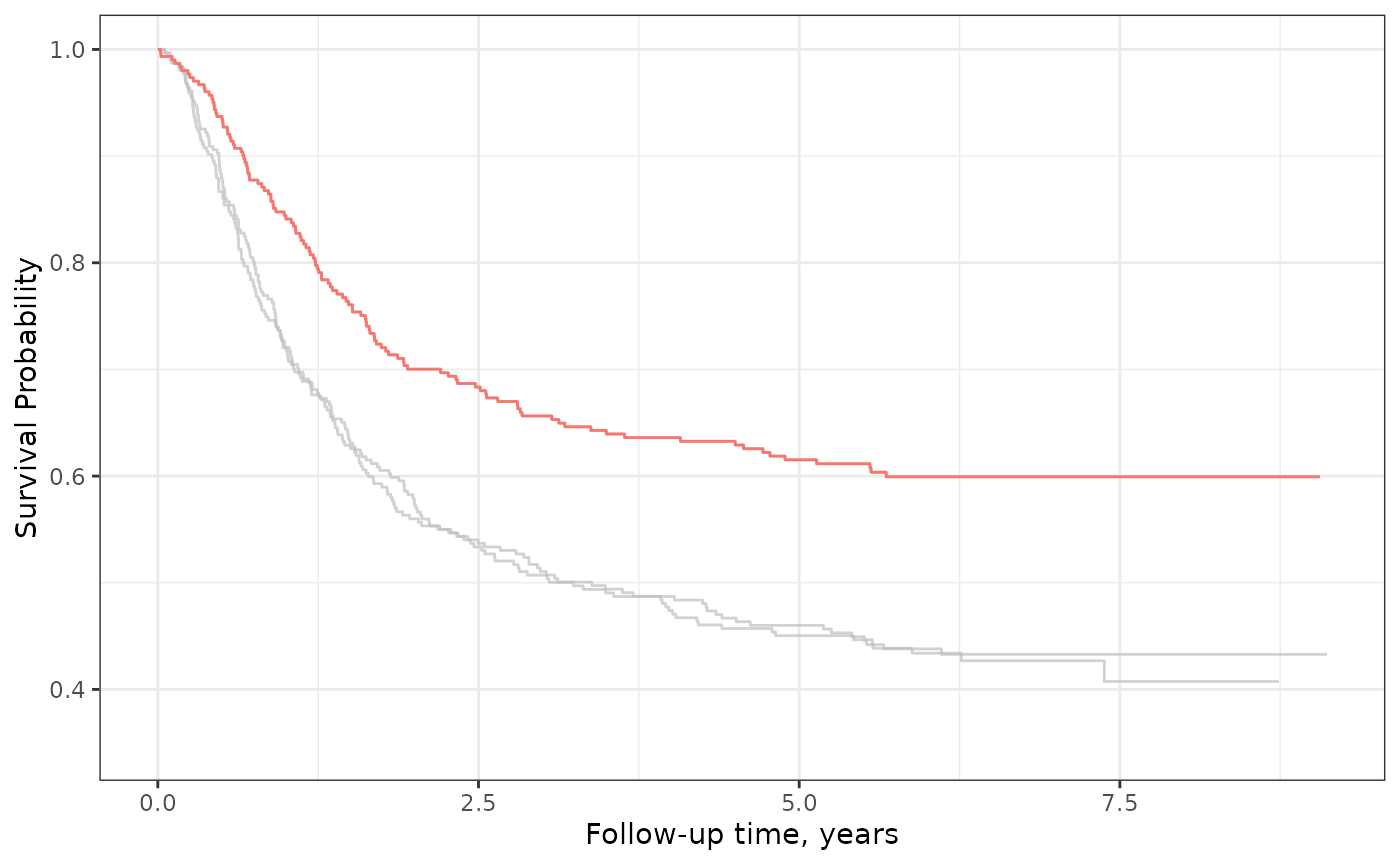
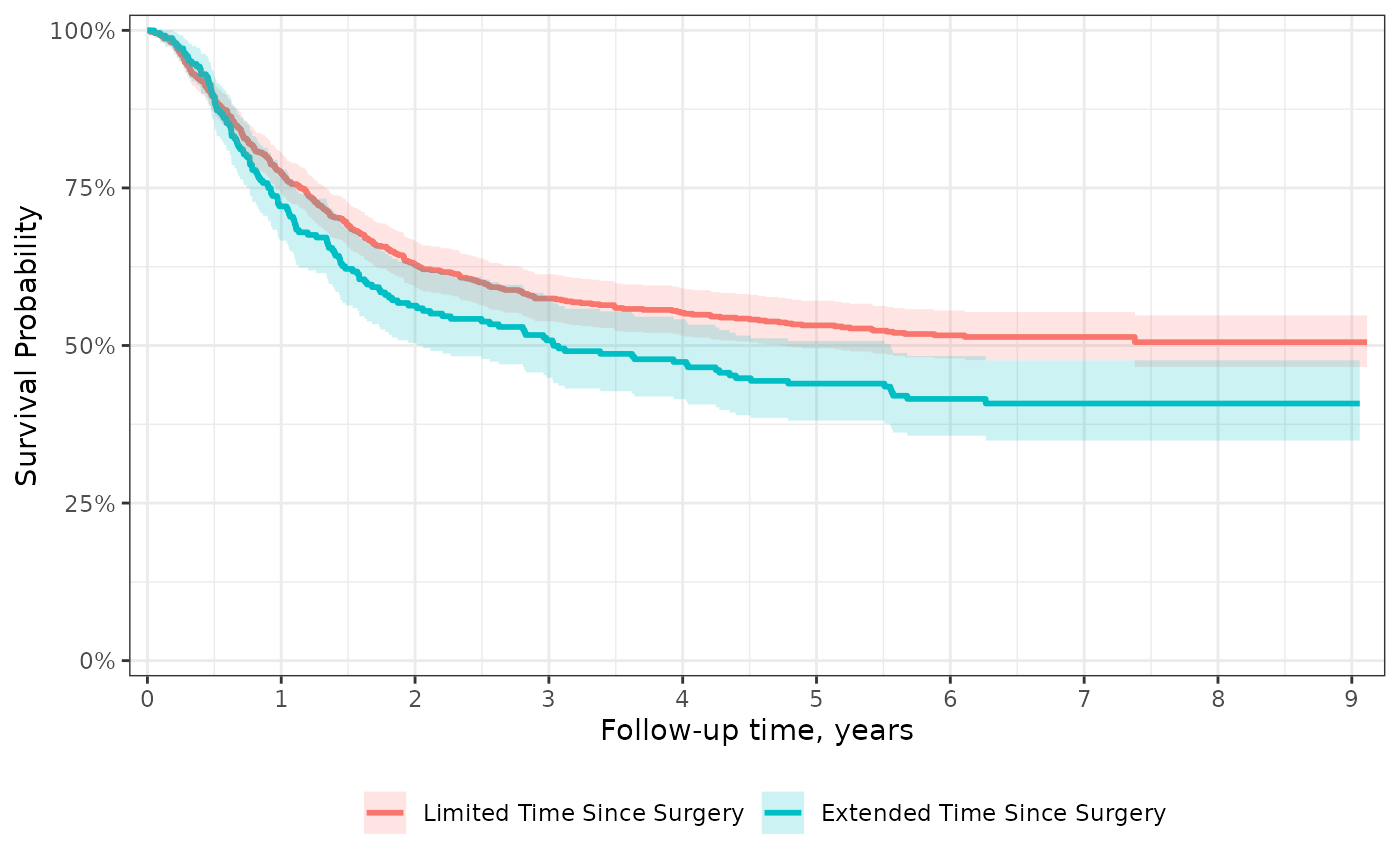
Deploying to gh-pages from @ ddsjoberg/ggsurvfit@62df2901b9de74e2e873002a0ddef8b74cec7083 🚀

diff --git a/dev/articles/gallery.html b/dev/articles/gallery.html
@@ -267,7 +267,7 @@
 <div class="section level2">
 <h2 id="extensions">Extensions<a class="anchor" aria-label="anchor" href="#extensions"></a>
 </h2>
-<p>Because {ggsurvfit} functions are written as proper {ggplot2} geoms, you can both weave any {ggplot2} functions <strong>and</strong> ggplot2 extensions, such as {gghighlight}.</p>
+<p>Because {ggsurvfit} functions are written as proper {ggplot2} geoms, you can both weave any {ggplot2} functions <strong>and</strong> ggplot2 extensions, such as {gghighlight} and {ggeasy}.</p>
 <div class="sourceCode" id="cb13"><pre class="downlit sourceCode r">
 <code class="sourceCode R"><span><span class="fu"><a href="../reference/survfit2.html">survfit2</a></span><span class="op">(</span><span class="fu"><a href="https://rdrr.io/pkg/survival/man/Surv.html" class="external-link">Surv</a></span><span class="op">(</span><span class="va">time</span>, <span class="va">status</span><span class="op">)</span> <span class="op">~</span> <span class="va">rx</span>, data <span class="op">=</span> <span class="va">df_colon</span><span class="op">)</span> <span class="op"><a href="https://magrittr.tidyverse.org/reference/pipe.html" class="external-link">%&gt;%</a></span></span>
 <span>  <span class="fu"><a href="../reference/ggsurvfit.html">ggsurvfit</a></span><span class="op">(</span><span class="op">)</span> <span class="op">+</span></span>
@@ -275,10 +275,26 @@
 <span>    <span class="va">strata</span> <span class="op">==</span> <span class="st">"Levamisole+5-FU"</span>,</span>
 <span>    calculate_per_facet <span class="op">=</span> <span class="cn">TRUE</span></span>
 <span>  <span class="op">)</span> <span class="op">+</span></span>
-<span>  <span class="fu">theme</span><span class="op">(</span>legend.position <span class="op">=</span> <span class="st">"none"</span><span class="op">)</span></span>
-<span><span class="co">#&gt; Warning: Tried to calculate with group_by(), but the calculation failed.</span></span>
-<span><span class="co">#&gt; Falling back to ungrouped filter operation...</span></span></code></pre></div>
+<span>  <span class="fu">ggeasy</span><span class="fu">::</span><span class="fu"><a href="https://rdrr.io/pkg/ggeasy/man/easy_remove_legend.html" class="external-link">easy_remove_legend</a></span><span class="op">(</span><span class="op">)</span> <span class="op">+</span></span>
+<span>  <span class="fu">ggeasy</span><span class="fu">::</span><span class="fu"><a href="https://rdrr.io/pkg/ggeasy/man/easy_change_text.html" class="external-link">easy_y_axis_labels_size</a></span><span class="op">(</span>size <span class="op">=</span> <span class="fl">15</span><span class="op">)</span> <span class="op">+</span></span>
+<span>  <span class="fu">ggeasy</span><span class="fu">::</span><span class="fu"><a href="https://rdrr.io/pkg/ggeasy/man/easy_change_text.html" class="external-link">easy_x_axis_labels_size</a></span><span class="op">(</span>size <span class="op">=</span> <span class="fl">15</span><span class="op">)</span></span></code></pre></div>
 <p><img src="gallery_files/figure-html/unnamed-chunk-13-1.png" width="700"></p>
+</div>
+<div class="section level2">
+<h2 id="scales">Scales<a class="anchor" aria-label="anchor" href="#scales"></a>
+</h2>
+<p>Unlike most ggplot2 functions, scales are not additive. This means that if a scale attribute is modified in one call to <code>scale_x_continuous()</code>, a second call to <code>scale_x_continuous()</code> will write over <em>all</em> changes made in the first. For this reason, the <code><a href="../reference/ggsurvfit.html">ggsurvfit()</a></code> and <code><a href="../reference/ggcuminc.html">ggcuminc()</a></code> functions do not modify the default ggplot scales; rather, all changes to the scales are left to the user.</p>
+<p>But, I do not like the default ggplot2 padding when applied to survival curves: I find it to be excessive. Moreover, I have difficulty remembering the ggplot2 syntax to reduce the padding. For these reasons, we export a new scale function to reduce padding for the x and y axes: <code><a href="../reference/scale_continuous_reduce_pad.html">scale_continuous_reduce_pad()</a></code>. To use this function, however, you must include all modifications you wish to make to either the x or y scale in this function call.</p>
+<p>In the example below, we reduce the padding and make other scale changes to the scales, such as, specifying the breaks on the x-axis, increasing the y-axis limits, and show the survival probabilities on a percentage scale.</p>
+<div class="sourceCode" id="cb14"><pre class="downlit sourceCode r">
+<code class="sourceCode R"><span><span class="fu"><a href="../reference/survfit2.html">survfit2</a></span><span class="op">(</span><span class="fu"><a href="https://rdrr.io/pkg/survival/man/Surv.html" class="external-link">Surv</a></span><span class="op">(</span><span class="va">time</span>, <span class="va">status</span><span class="op">)</span> <span class="op">~</span> <span class="va">surg</span>, data <span class="op">=</span> <span class="va">df_colon</span><span class="op">)</span> <span class="op"><a href="https://magrittr.tidyverse.org/reference/pipe.html" class="external-link">%&gt;%</a></span></span>
+<span>  <span class="fu"><a href="../reference/ggsurvfit.html">ggsurvfit</a></span><span class="op">(</span>size <span class="op">=</span> <span class="fl">1</span><span class="op">)</span> <span class="op">+</span></span>
+<span>  <span class="fu"><a href="../reference/add_confidence_interval.html">add_confidence_interval</a></span><span class="op">(</span><span class="op">)</span> <span class="op">+</span></span>
+<span>  <span class="fu"><a href="../reference/scale_continuous_reduce_pad.html">scale_continuous_reduce_pad</a></span><span class="op">(</span></span>
+<span>    x_scales <span class="op">=</span> <span class="fu"><a href="https://rdrr.io/r/base/list.html" class="external-link">list</a></span><span class="op">(</span>breaks <span class="op">=</span> <span class="fl">0</span><span class="op">:</span><span class="fl">9</span><span class="op">)</span>,</span>
+<span>    y_scales <span class="op">=</span> <span class="fu"><a href="https://rdrr.io/r/base/list.html" class="external-link">list</a></span><span class="op">(</span>label <span class="op">=</span> <span class="fu">scales</span><span class="fu">::</span><span class="va"><a href="https://scales.r-lib.org/reference/percent_format.html" class="external-link">percent</a></span>, limits <span class="op">=</span> <span class="fu"><a href="https://rdrr.io/r/base/c.html" class="external-link">c</a></span><span class="op">(</span><span class="fl">0</span>, <span class="fl">1</span><span class="op">)</span><span class="op">)</span></span>
+<span>  <span class="op">)</span></span></code></pre></div>
+<p><img src="gallery_files/figure-html/unnamed-chunk-14-1.png" width="700"></p>
 </div>
   </main><aside class="col-md-3"><nav id="toc"><h2>On this page</h2>
     </nav></aside>

diff --git a/dev/reference/scale_continuous_reduce_pad.html b/dev/reference/scale_continuous_reduce_pad.html
@@ -1,9 +1,15 @@
 <!DOCTYPE html>
 <!-- Generated by pkgdown: do not edit by hand --><html lang="en"><head><meta http-equiv="Content-Type" content="text/html; charset=UTF-8"><meta charset="utf-8"><meta http-equiv="X-UA-Compatible" content="IE=edge"><meta name="viewport" content="width=device-width, initial-scale=1, shrink-to-fit=no"><meta name="description" content="I have a hard time remembering the syntax to reduce horizontal and vertical
 padding on a ggplot2 figure. Hence, a function with default reduced padding.
+The default padding arguments in this functions are
+scale_x_continuous(expand = c(0.015, 0)) and
+scale_y_continuous(expand = c(0.025, 0)).
 If you use this function, you must include all scale specifications
 that would appear in scale_x_continuous() or scale_y_continuous()."><title>Reduce Scale Padding — scale_continuous_reduce_pad • ggsurvfit</title><!-- favicons --><link rel="icon" type="image/png" sizes="16x16" href="../favicon-16x16.png"><link rel="icon" type="image/png" sizes="32x32" href="../favicon-32x32.png"><link rel="apple-touch-icon" type="image/png" sizes="180x180" href="../apple-touch-icon.png"><link rel="apple-touch-icon" type="image/png" sizes="120x120" href="../apple-touch-icon-120x120.png"><link rel="apple-touch-icon" type="image/png" sizes="76x76" href="../apple-touch-icon-76x76.png"><link rel="apple-touch-icon" type="image/png" sizes="60x60" href="../apple-touch-icon-60x60.png"><script src="../deps/jquery-3.6.0/jquery-3.6.0.min.js"></script><meta name="viewport" content="width=device-width, initial-scale=1, shrink-to-fit=no"><link href="../deps/bootstrap-5.1.3/bootstrap.min.css" rel="stylesheet"><script src="../deps/bootstrap-5.1.3/bootstrap.bundle.min.js"></script><link href="../deps/Atkinson_Hyperlegible-0.4.2/font.css" rel="stylesheet"><!-- Font Awesome icons --><link rel="stylesheet" href="https://cdnjs.cloudflare.com/ajax/libs/font-awesome/5.12.1/css/all.min.css" integrity="sha256-mmgLkCYLUQbXn0B1SRqzHar6dCnv9oZFPEC1g1cwlkk=" crossorigin="anonymous"><link rel="stylesheet" href="https://cdnjs.cloudflare.com/ajax/libs/font-awesome/5.12.1/css/v4-shims.min.css" integrity="sha256-wZjR52fzng1pJHwx4aV2AO3yyTOXrcDW7jBpJtTwVxw=" crossorigin="anonymous"><!-- bootstrap-toc --><script src="https://cdn.rawgit.com/afeld/bootstrap-toc/v1.0.1/dist/bootstrap-toc.min.js"></script><!-- headroom.js --><script src="https://cdnjs.cloudflare.com/ajax/libs/headroom/0.11.0/headroom.min.js" integrity="sha256-AsUX4SJE1+yuDu5+mAVzJbuYNPHj/WroHuZ8Ir/CkE0=" crossorigin="anonymous"></script><script src="https://cdnjs.cloudflare.com/ajax/libs/headroom/0.11.0/jQuery.headroom.min.js" integrity="sha256-ZX/yNShbjqsohH1k95liqY9Gd8uOiE1S4vZc+9KQ1K4=" crossorigin="anonymous"></script><!-- clipboard.js --><script src="https://cdnjs.cloudflare.com/ajax/libs/clipboard.js/2.0.6/clipboard.min.js" integrity="sha256-inc5kl9MA1hkeYUt+EC3BhlIgyp/2jDIyBLS6k3UxPI=" crossorigin="anonymous"></script><!-- search --><script src="https://cdnjs.cloudflare.com/ajax/libs/fuse.js/6.4.6/fuse.js" integrity="sha512-zv6Ywkjyktsohkbp9bb45V6tEMoWhzFzXis+LrMehmJZZSys19Yxf1dopHx7WzIKxr5tK2dVcYmaCk2uqdjF4A==" crossorigin="anonymous"></script><script src="https://cdnjs.cloudflare.com/ajax/libs/autocomplete.js/0.38.0/autocomplete.jquery.min.js" integrity="sha512-GU9ayf+66Xx2TmpxqJpliWbT5PiGYxpaG8rfnBEk1LL8l1KGkRShhngwdXK1UgqhAzWpZHSiYPc09/NwDQIGyg==" crossorigin="anonymous"></script><script src="https://cdnjs.cloudflare.com/ajax/libs/mark.js/8.11.1/mark.min.js" integrity="sha512-5CYOlHXGh6QpOFA/TeTylKLWfB3ftPsde7AnmhuitiTX4K5SqCLBeKro6sPS8ilsz1Q4NRx3v8Ko2IBiszzdww==" crossorigin="anonymous"></script><!-- pkgdown --><script src="../pkgdown.js"></script><meta property="og:title" content="Reduce Scale Padding — scale_continuous_reduce_pad"><meta property="og:description" content="I have a hard time remembering the syntax to reduce horizontal and vertical
 padding on a ggplot2 figure. Hence, a function with default reduced padding.
+The default padding arguments in this functions are
+scale_x_continuous(expand = c(0.015, 0)) and
+scale_y_continuous(expand = c(0.025, 0)).
 If you use this function, you must include all scale specifications
 that would appear in scale_x_continuous() or scale_y_continuous()."><meta property="og:image" content="http://www.danieldsjoberg.com/ggsurvfit/logo.png"><meta name="robots" content="noindex"><!-- mathjax --><script src="https://cdnjs.cloudflare.com/ajax/libs/mathjax/2.7.5/MathJax.js" integrity="sha256-nvJJv9wWKEm88qvoQl9ekL2J+k/RWIsaSScxxlsrv8k=" crossorigin="anonymous"></script><script src="https://cdnjs.cloudflare.com/ajax/libs/mathjax/2.7.5/config/TeX-AMS-MML_HTMLorMML.js" integrity="sha256-84DKXVJXs0/F8OTMzX4UR909+jtl4G7SPypPavF+GfA=" crossorigin="anonymous"></script><!--[if lt IE 9]>
 <script src="https://oss.maxcdn.com/html5shiv/3.7.3/html5shiv.min.js"></script>
@@ -60,7 +66,10 @@ that would appear in scale_x_continuous() or scale_y_continuous()."><meta proper
 
     <div class="ref-description section level2">
     <p>I have a hard time remembering the syntax to reduce horizontal and vertical
-padding on a ggplot2 figure. Hence, a function with default reduced padding.</p>
+padding on a ggplot2 figure. Hence, a function with default reduced padding.
+The default padding arguments in this functions are
+<code>scale_x_continuous(expand = c(0.015, 0))</code> and
+<code>scale_y_continuous(expand = c(0.025, 0))</code>.</p>
 <p>If you use this function, you <strong>must</strong> include all scale specifications
 that would appear in <code>scale_x_continuous()</code> or <code>scale_y_continuous()</code>.</p>
     </div>
